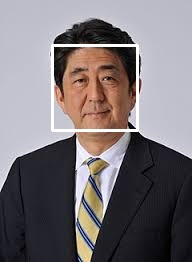
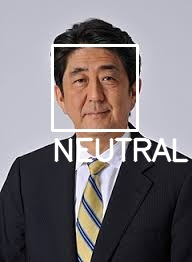
fix

Changed region(s): [[0.2812, 0.5191, 1.0, 0.6412]]

diff --git a/face_test.py b/face_test.py
@@ -8,8 +8,11 @@ import cv2
 cascade_path = "haarcascade_frontalface_default.xml"
 
 
+from emothion_recog import emotion_recog
+
+
 # 使用ファイルと入出力ディレクトリ
-image_file = "img_87a61102fe8ab60b4576b36a570ebd50271559.jpg"
+image_file = "abe.jpg"
 image_path = "./inputs/" + image_file
 output_path = "./outputs/" + image_file
 
@@ -47,6 +50,8 @@ if len(facerect) > 0:
         result = 1 - np.argmax(result, axis=1)
         if result[0]:
             cv2.rectangle(image, tuple(rect[0:2]),tuple(rect[0:2]+rect[2:4]), color, thickness=2)
+            font = cv2.FONT_HERSHEY_SIMPLEX
+            cv2.putText(image,emotion_recog(x_data),(rect[0],rect[1]+rect[3]+30),font,1,color,2,cv2.LINE_AA)
     #認識結果の保存
     cv2.imwrite(output_path, image)
 

diff --git a/emothion_recog.py b/emothion_recog.py
@@ -7,9 +7,9 @@ def emotion_recog(img):
     f = open('fer2013_big_XCEPTION.54-0.66.config')
     emotions = f.readline().split('\t')
 
-    img = [img]
-    img = np.array(img).astype("float32") / 255.0
-    img = img[..., np.newaxis]
+    # img = [img]
+    # img = np.array(img).astype("float32")
+    # img = img[..., np.newaxis]
     #   https://github.com/oarriaga/face_classification
     model = keras.models.load_model('fer2013_big_XCEPTION.54-0.66.hdf5', compile=False)
     result = model.predict(img)
